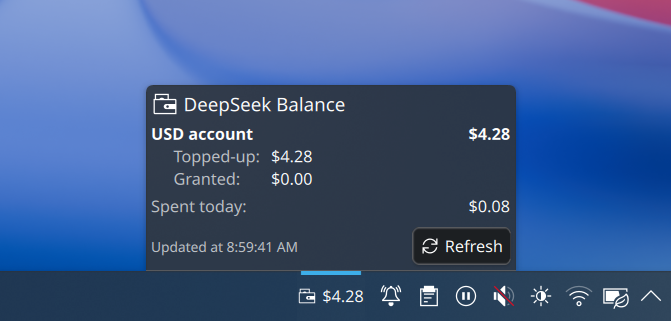
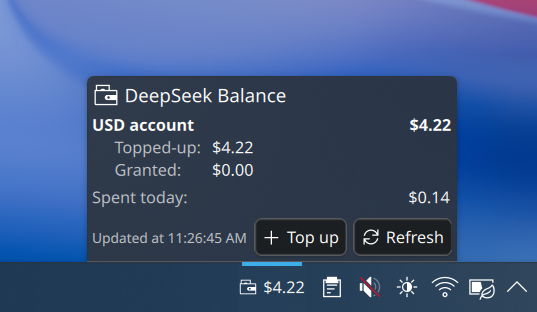
Add top up button

Changed region(s): [[0.0, 0.0, 1.0, 0.9808], [0.8641, 0.0, 1.0, 0.0865]]

diff --git a/package/contents/ui/main.qml b/package/contents/ui/main.qml
@@ -37,6 +37,9 @@ PlasmoidItem {
     readonly property string apiKey: (plasmoid.configuration.apiKey || "").trim()
     readonly property bool configured: apiKey.length > 0
     readonly property int requestTimeoutMs: 30000
+    // DeepSeek's own docs only link to https://platform.deepseek.com/ ; the
+    // /top_up route is not documented, but several public projects use it.
+    readonly property string topUpUrl: "https://platform.deepseek.com/top_up"
 
     property var balanceInfos: []
     property bool fundsAvailable: false
@@ -365,6 +368,12 @@ PlasmoidItem {
             }
 
             PlasmaComponents.Button {
+                text: i18n("Top up")
+                icon.name: "list-add"
+                onClicked: Qt.openUrlExternally(root.topUpUrl)
+            }
+
+            PlasmaComponents.Button {
                 text: i18n("Refresh")
                 icon.name: "view-refresh"
                 enabled: root.configured && !root.loading
@@ -374,6 +383,11 @@ PlasmoidItem {
     }
 
     Plasmoid.contextualActions: [
+        PlasmaCore.Action {
+            text: i18n("Top up DeepSeek balance")
+            icon.name: "list-add"
+            onTriggered: Qt.openUrlExternally(root.topUpUrl)
+        },
         PlasmaCore.Action {
             text: i18n("Refresh DeepSeek balance")
             icon.name: "view-refresh"
